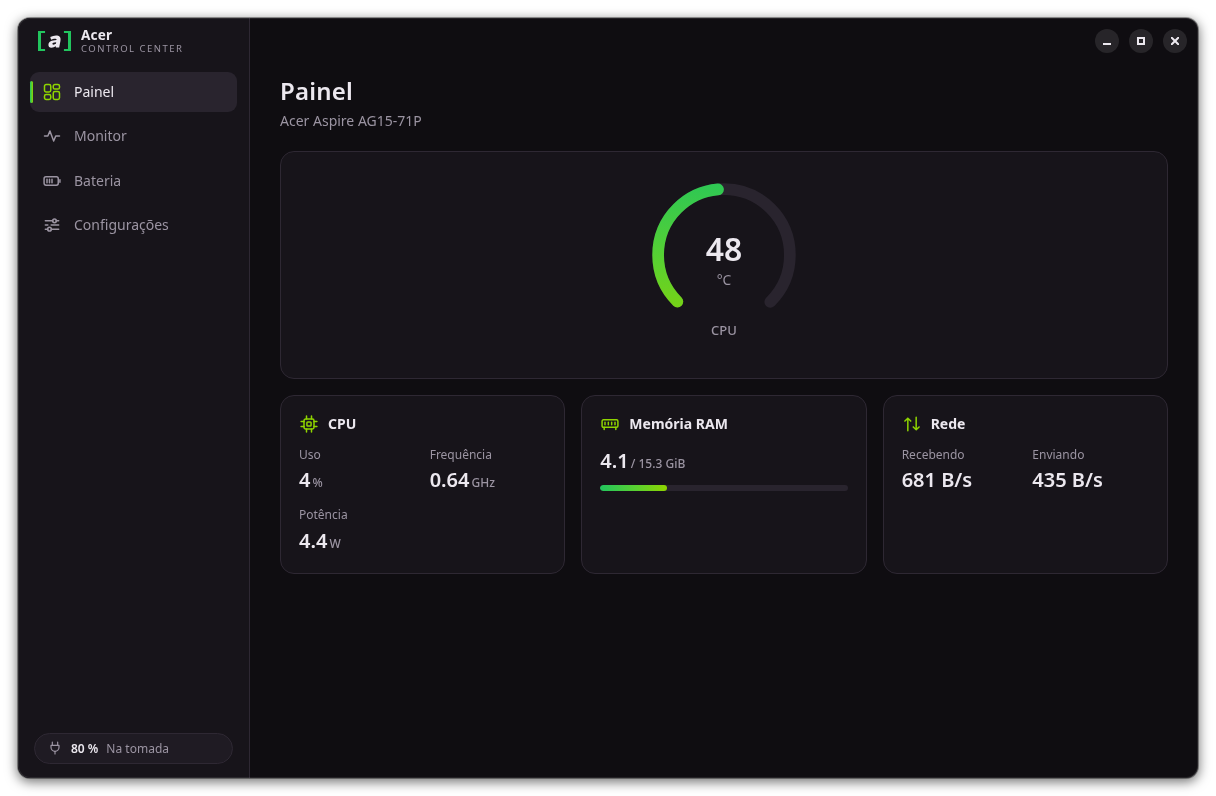
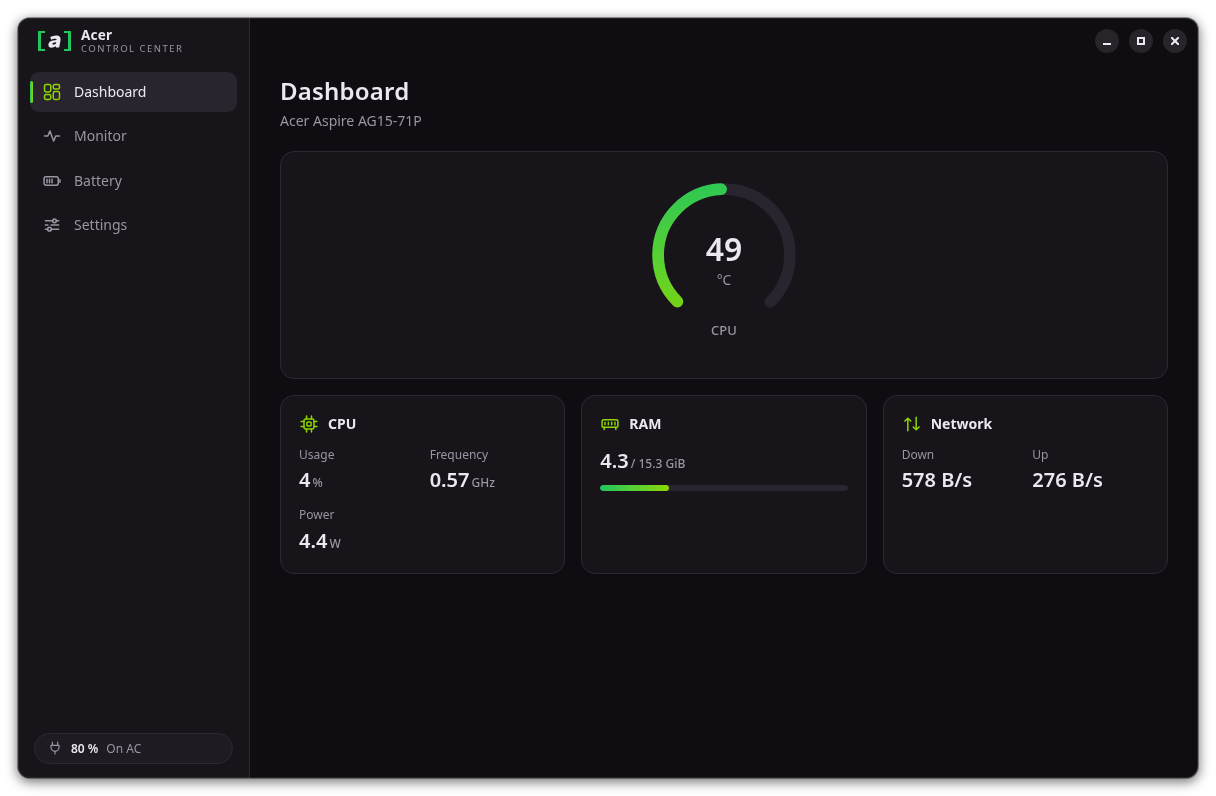
tools/gui-screenshots.py; README screenshots in English
The README screenshots are now always in English and reproducible:

  python3 -I tools/gui-screenshots.py nitro            # simulated ANV15-52
  python3 -I tools/gui-screenshots.py predator         # simulated PHN16-72
  python3 -I tools/gui-screenshots.py acer --dry-run   # this machine, read-only

The tool starts acerd on the session bus (staged when simulated:
Performance, fans at max, scenarios Gaming/Rendering/Quiet with App Sync
on), runs wails dev in the flavor with a temporary XDG_CONFIG_HOME
holding "lang": "en" (and refuses to capture in another language),
captures every page the menu shows through headless Chrome over the
DevTools Protocol (1216x796, transparent margin, Monitor on its 2 min
window) and stops everything it started. It will not run next to
another acerd on the session bus or another wails dev.

docs/screenshots/{acer,nitro} retaken with it; gui/README.md and STATUS
describe it.

diff --git a/tools/gui-screenshots.py b/tools/gui-screenshots.py
@@ -1,0 +1,187 @@
+#!/usr/bin/env python3
+"""Screenshots of the GUI for the README (docs/screenshots/<flavor>/).
+
+Starts acerd on the session bus, stages it, runs the GUI under `wails dev`
+in the chosen flavor and captures every page its menu shows through headless
+Chrome (DevTools Protocol), then stops everything it started:
+
+  python3 -I tools/gui-screenshots.py nitro             # simulated ANV15-52
+  python3 -I tools/gui-screenshots.py predator          # simulated PHN16-72 (Predator mock)
+  python3 -I tools/gui-screenshots.py acer --dry-run    # this machine, read-only
+
+Screenshots are always in English (a temporary XDG_CONFIG_HOME with
+"lang": "en"; the user's settings are not touched), 1216x796 with the window's
+transparent shadow margin. Simulated daemons are staged like a real machine in
+use: Performance mode, fans at max and three scenarios with App Sync on. The
+Monitor page collects --monitor-wait seconds of history and is shown on its
+2 min window. `wails dev` also opens its own window on the desktop meanwhile.
+
+Needs: daemon/acerd and daemon/acerctl built (sh packaging/install-daemon.sh
+build), wails, google-chrome (or chromium) and python3-websocket.
+"""
+import argparse, base64, json, os, shutil, signal, subprocess, sys, tempfile, time, urllib.request
+
+ROOT = os.path.dirname(os.path.dirname(os.path.abspath(__file__)))
+DEV_URL = 'http://localhost:34115/'
+SIZE = (1216, 796)  # window 1180x760 + 18 px shadow margin on each side
+SIM = {'nitro': 'ANV15-52', 'predator': 'PHN16-72'}
+
+# Staging of a simulated machine: (acerctl arguments...)
+STAGE = [
+    ['scenario', 'save', 'Gaming', '--mode-ac', 'balanced-performance', '--mode-battery', 'balanced',
+     '--fan', 'cpu=max', '--fan', 'gpu=max', '--kbd-timeout', '0',
+     '--app', 'eldenring.exe', '--app', 'cyberpunk2077.exe', '--app', 'cs2'],
+    ['scenario', 'save', 'Rendering', '--mode-ac', 'balanced-performance', '--fan', 'cpu=80', '--fan', 'gpu=70',
+     '--app', 'blender'],
+    ['scenario', 'save', 'Quiet', '--mode-ac', 'quiet', '--mode-battery', 'low-power',
+     '--fan', 'cpu=auto', '--fan', 'gpu=auto', '--kbd-timeout', '30'],
+    ['appsync', 'on'],
+    ['scenario', 'apply', 'Gaming'],
+]
+
+
+def die(msg):
+    sys.exit('gui-screenshots: ' + msg)
+
+
+def session_bus_has(name):
+    r = subprocess.run(['busctl', '--user', 'call', 'org.freedesktop.DBus', '/org/freedesktop/DBus',
+                        'org.freedesktop.DBus', 'NameHasOwner', 's', name], capture_output=True, text=True)
+    return r.stdout.strip() == 'b true'
+
+
+def page_html():
+    try:
+        return urllib.request.urlopen(DEV_URL, timeout=2).read().decode('utf-8', 'replace')
+    except OSError:
+        return ''
+
+
+def wait_for(cond, secs, what):
+    end = time.time() + secs
+    while time.time() < end:
+        if cond():
+            return
+        time.sleep(1)
+    die('timed out waiting for ' + what)
+
+
+def capture(out, monitor_wait):
+    import websocket  # python3-websocket
+    chrome_bin = shutil.which('google-chrome') or shutil.which('chromium') or die('google-chrome or chromium not found')
+    port = 9333
+    prof = tempfile.mkdtemp(prefix='gui-shots-chrome-')
+    chrome = subprocess.Popen([chrome_bin, '--headless=new', f'--remote-debugging-port={port}', f'--user-data-dir={prof}',
+                               f'--window-size={SIZE[0]},{SIZE[1]}', '--hide-scrollbars', '--no-first-run', '--disable-gpu',
+                               'about:blank'], stdout=subprocess.DEVNULL, stderr=subprocess.DEVNULL)
+    try:
+        targets = None
+        for _ in range(50):
+            try:
+                targets = json.load(urllib.request.urlopen(f'http://127.0.0.1:{port}/json'))
+                break
+            except OSError:
+                time.sleep(0.2)
+        page = next(t for t in targets or [] if t['type'] == 'page')
+        ws = websocket.create_connection(page['webSocketDebuggerUrl'], timeout=60, suppress_origin=True)
+        seq = 0
+
+        def cdp(method, **params):
+            nonlocal seq
+            seq += 1
+            ws.send(json.dumps({'id': seq, 'method': method, 'params': params}))
+            while True:
+                m = json.loads(ws.recv())
+                if m.get('id') == seq:
+                    if 'error' in m:
+                        raise RuntimeError(m['error'])
+                    return m.get('result', {})
+
+        def js(expr):
+            return cdp('Runtime.evaluate', expression=expr, returnByValue=True).get('result', {}).get('value')
+
+        cdp('Emulation.setDeviceMetricsOverride', width=SIZE[0], height=SIZE[1], deviceScaleFactor=1, mobile=False)
+        cdp('Emulation.setDefaultBackgroundColorOverride', color={'r': 0, 'g': 0, 'b': 0, 'a': 0})
+        cdp('Page.enable')
+        cdp('Page.navigate', url=DEV_URL + '#monitor')
+        time.sleep(6)  # the page reloads once to pick up the language from settings.json
+        lang = js('document.documentElement.lang')
+        if lang != 'en':
+            die(f'the GUI came up in {lang!r}, not English')
+        pages = js("[...document.querySelectorAll('[data-nav]')].filter(b => !b.classList.contains('hidden')).map(b => b.dataset.nav)")
+        print('flavor', js('document.documentElement.dataset.flavor'), 'pages', ','.join(pages))
+        js("document.querySelector('[data-w=\"120\"]')?.click()")
+        print(f'collecting {monitor_wait} s of monitor history...', flush=True)
+        time.sleep(monitor_wait)
+        os.makedirs(out, exist_ok=True)
+        for p in pages:
+            js(f"location.hash = '#{p}'")
+            time.sleep(3)
+            js('document.activeElement && document.activeElement.blur()')
+            shot = cdp('Page.captureScreenshot', format='png')
+            path = os.path.join(out, p + '.png')
+            with open(path, 'wb') as f:
+                f.write(base64.b64decode(shot['data']))
+            print('wrote', os.path.relpath(path, ROOT))
+        ws.close()
+    finally:
+        chrome.terminate()
+        chrome.wait()
+        shutil.rmtree(prof, ignore_errors=True)
+
+
+def main():
+    ap = argparse.ArgumentParser(description=__doc__.split('\n')[0])
+    ap.add_argument('flavor', choices=['acer', 'nitro', 'predator'])
+    ap.add_argument('--dry-run', action='store_true', help="use this machine's hardware read-only instead of a simulated model")
+    ap.add_argument('--out', help='output directory (default: docs/screenshots/<flavor>)')
+    ap.add_argument('--monitor-wait', type=int, default=95, help='seconds of Monitor history before capturing (default 95)')
+    opt = ap.parse_args()
+    if not opt.dry_run and opt.flavor not in SIM:
+        die(f'no simulated model for {opt.flavor}; run it on such a machine with --dry-run')
+    out = opt.out or os.path.join(ROOT, 'docs', 'screenshots', opt.flavor)
+    acerd, acerctl = os.path.join(ROOT, 'daemon', 'acerd'), os.path.join(ROOT, 'daemon', 'acerctl')
+    wails = shutil.which('wails') or os.path.expanduser('~/go/bin/wails')
+    for f in (acerd, acerctl, wails):
+        if not os.access(f, os.X_OK):
+            die(f'{f} not found (see the requirements in the header)')
+    if session_bus_has('io.github.fnndk.Acerd1'):
+        die('an acerd already runs on the session bus; stop it first')
+    if page_html():
+        die(f'something already serves {DEV_URL}; stop the other wails dev first')
+
+    tmp = tempfile.mkdtemp(prefix='gui-shots-')
+    cfg = os.path.join(tmp, 'config')
+    os.makedirs(os.path.join(cfg, 'acerctl'))
+    with open(os.path.join(cfg, 'acerctl', 'settings.json'), 'w') as f:
+        json.dump({'lang': 'en'}, f)
+    env = dict(os.environ, XDG_CONFIG_HOME=cfg, ACERCTL_SESSION='1', ACERCTL_FLAVOR=opt.flavor)
+    env['PATH'] = env.get('PATH', '') + os.pathsep + os.path.dirname(wails)
+
+    args = [acerd, '--session', '--no-polkit', '--state', os.path.join(tmp, 'state.json')]
+    args += ['--dry-run'] if opt.dry_run else ['--simulate', SIM[opt.flavor]]
+    log = open(os.path.join(tmp, 'acerd.log'), 'w')
+    daemon = subprocess.Popen(args, stdout=log, stderr=log)
+    dev = None
+    try:
+        wait_for(lambda: session_bus_has('io.github.fnndk.Acerd1'), 20, 'acerd')
+        if not opt.dry_run:
+            for a in STAGE:
+                subprocess.run([acerctl, '--session'] + a, check=True, stdout=subprocess.DEVNULL)
+        subprocess.run([acerctl, '--session', 'status'], check=True)
+        print('starting wails dev (it also opens a window)...', flush=True)
+        dev = subprocess.Popen([wails, 'dev', '-tags', 'webkit2_41'], cwd=os.path.join(ROOT, 'gui'), env=env,
+                               stdout=subprocess.DEVNULL, stderr=subprocess.DEVNULL, start_new_session=True)
+        wait_for(lambda: f'data-flavor="{opt.flavor}"' in page_html(), 300, 'wails dev')
+        capture(out, opt.monitor_wait)
+    finally:
+        if dev:
+            os.killpg(dev.pid, signal.SIGTERM)
+            dev.wait()
+        daemon.terminate()
+        daemon.wait()
+        shutil.rmtree(tmp, ignore_errors=True)
+
+
+if __name__ == '__main__':
+    main()

diff --git a/STATUS.md b/STATUS.md
@@ -52,7 +52,7 @@ Reference machine: Acer **Nitro ANV15-52** (i7-13620H, RTX 4060, BIOS V1.31), Fe
 - [x] **Suspend/resume** (2026-10-12): `internal/service/sleep.go` listens to logind's `PrepareForSleep`; reapplies profile and fans on resume and restores fans at startup (manual → auto). Findings on the ANV15-52: the firmware resets the profile to `balanced` on resume (the daemon ignores that write and tuned's until it finishes), the fans (max/manual + PWM) survive S3. Validated: `quiet` + max and `quiet` + manual 40 % → resume restores `quiet`; restart with manual → `auto` (api-dbus.md §11).
 - [x] **`[N]` mark and icon** (2026-10-13): `assets/logo/` holds only the ones in use: `n-icon-cut.svg` (app icon: dark rounded square with a #FFA000 base showing at the bottom, a 3D effect in the style of GNOME icons, `[N]` in bas-relief) and `n-mark-cut.svg` (the same `[N]` without the background: N in `currentColor`, brackets in `var(--accent, #ff1b19)`). Source Code Pro Black letters (SIL OFL 1.1) as outlines. The discarded variants (including the gradient octagon, too similar to the Acer icon) went to `../referencias/logo/`, outside the repository.
 - [x] **Icons of the green flavor `acer-control-center`** (2026-10-13): `assets/logo/a-icon-cut.svg` (app icon) and `a-mark-cut.svg` (sidebar mark) with a lowercase "a" from the same Source Code Pro Black, slanted 11° (the font's italic angle; its true italic "a" is single-storey and was dropped), brackets upright, on the N's baseline and centred between the brackets (outlines extracted with fontTools; the extracted N matched the existing outline exactly); own green palette, not Acer's (brackets `#22c55e`, base `#8fd400`, face `#001f0d`→`#10270a`, outline `#2c4a00`). Tray: `assets/logo/n-tray.svg` (source of the existing `icon.png`: rounded black square rx 12, white [N]; re-rendered it differs only in antialiasing) and `a-tray.svg` → `daemon/cmd/acer-tray/icon-a.png`. The SVGs are the sources of the tray PNGs (`fyne.io/systray` takes a bitmap only): `go generate ./cmd/acer-tray` renders both with `rsvg-convert -w 64 -h 64` (librsvg); `icon.png` was regenerated that way. The old SVG comments/ids were translated to English and the marks' comments no longer contain `--` (invalid in XML, rejected by librsvg).
-- [x] **Blue-grey flavor `predator-control-center`** (2026-10-13, checked under `wails dev` with `ACERCTL_FLAVOR=predator` against the simulated ANV15-52; no Predator to install it on): `[P]` from Source Code Pro Black (upright, centred between the brackets), palette brackets/`--g1` `#5a95d8` (a slightly stronger blue than the first `#7aa2cc`), `--g2` `#8bb1da`, base/`--g3` `#b4cbe0`, face `#0c1622`→`#1a2430`, outline `#34465c`; `assets/logo/p-{icon-cut,mark-cut,tray}.svg`, `icon-p.png`, `build/appicon-p.png` (go generate); `daemon/flavor` lists the three flavors (`All`), the tray picks the one installed app; `packaging/io.github.fnndk.PredatorControlCenter.desktop`; `install-gui.sh`: Nitro* → nitro, Predator* → predator (was nitro), else acer. UI walk-through (every page) with `acerd --simulate PHN16-72`, a new Predator mock with the ANV15-52's capabilities: theming fixes for all flavors: the active mode's hover border (`--g-hi`, was a fixed peach), the lit keyboard art (accent instead of a fixed orange) and Monitor series colours per flavor (`--c-cpu/--c-cpu2/--c-gpu/--c-bat`: GPU amber on Predator so it does not blend with the blue CPU, battery violet on Acer so it does not blend with the green CPU; Nitro unchanged). README screenshots redone (2026-10-13): `docs/screenshots/acer/` (Aspire AG15-71P, real machine with `acerd --dry-run`: dashboard, monitor, battery, settings) and `docs/screenshots/nitro/` (`--simulate ANV15-52` staged as before: Performance, fans at max, three scenarios with "Jogos" active and App Sync on), Portuguese UI, 1216×796 with transparent margin; taken with headless Chrome over the DevTools Protocol against `wails dev` (Monitor on the 2 min window after ~95 s of history), with a separate `XDG_CONFIG_HOME` so the user's language setting is untouched. Primary buttons are solid in the flavor's colour everywhere (`.btn.primary`, no more gradient buttons): New scenario, the scenario editor's Save and the confirmation dialogs.
+- [x] **Blue-grey flavor `predator-control-center`** (2026-10-13, checked under `wails dev` with `ACERCTL_FLAVOR=predator` against the simulated ANV15-52; no Predator to install it on): `[P]` from Source Code Pro Black (upright, centred between the brackets), palette brackets/`--g1` `#5a95d8` (a slightly stronger blue than the first `#7aa2cc`), `--g2` `#8bb1da`, base/`--g3` `#b4cbe0`, face `#0c1622`→`#1a2430`, outline `#34465c`; `assets/logo/p-{icon-cut,mark-cut,tray}.svg`, `icon-p.png`, `build/appicon-p.png` (go generate); `daemon/flavor` lists the three flavors (`All`), the tray picks the one installed app; `packaging/io.github.fnndk.PredatorControlCenter.desktop`; `install-gui.sh`: Nitro* → nitro, Predator* → predator (was nitro), else acer. UI walk-through (every page) with `acerd --simulate PHN16-72`, a new Predator mock with the ANV15-52's capabilities: theming fixes for all flavors: the active mode's hover border (`--g-hi`, was a fixed peach), the lit keyboard art (accent instead of a fixed orange) and Monitor series colours per flavor (`--c-cpu/--c-cpu2/--c-gpu/--c-bat`: GPU amber on Predator so it does not blend with the blue CPU, battery violet on Acer so it does not blend with the green CPU; Nitro unchanged). README screenshots (2026-10-13), **always in English**: `docs/screenshots/acer/` (Aspire AG15-71P, real machine with `acerd --dry-run`) and `docs/screenshots/nitro/` (`--simulate ANV15-52` staged: Performance, fans at max, scenarios Gaming/Rendering/Quiet with App Sync on), 1216×796 with the transparent margin, made with `tools/gui-screenshots.py <acer|nitro|predator> [--dry-run]`: starts and stages acerd on the session bus, runs `wails dev` in the flavor with a temporary `XDG_CONFIG_HOME` holding `"lang": "en"` (refuses to capture otherwise), captures every page the menu shows through headless Chrome (DevTools Protocol; Monitor on its 2 min window after 95 s of history) and stops everything. Primary buttons are solid in the flavor's colour everywhere (`.btn.primary`, no more gradient buttons): New scenario, the scenario editor's Save and the confirmation dialogs.
 - [x] **Green flavor `acer-control-center`** (2026-10-13, checked under `wails dev` in both flavors against the read-only Aspire daemon and the simulated ANV15-52, then **installed and validated on the Aspire**: app, launcher icon and tray): one build, flavor decided at run time by the shared package `daemon/flavor` (name, app id, binary): the GUI by the name it is installed under, the tray by the installed app, `ACERCTL_FLAVOR=nitro|acer` overrides. GUI: window title, Wayland app_id/desktop file and single-instance id `io.github.fnndk.AcerControlCenter`, embedded icon `build/appicon-a.png` (`go generate` renders both app icons from the SVGs); an AssetServer middleware marks the page `<html data-flavor data-app-name>` so the first paint has the right mark (`[a]` in the sidebar), name ("Acer", About, document title) and palette (`--g1..--g3` switched on `:root[data-flavor=acer]`: #22c55e/#5bd12f/#8fd400; gauges, bars, switches, uPlot CPU lines, fans page). Tray: `icon-a.png`, name in tooltip/status/"Open …"/notifications, opens the installed app. `install-gui.sh`: flavor from the DMI product name (Nitro*/Predator* → nitro, else acer; `FLAVOR=` overrides), installs the binary under the flavor's name with its desktop file (`packaging/io.github.fnndk.AcerControlCenter.desktop`) and icon, rewrites the tray autostart entry's name/icon, removes the other flavor; `uninstall` removes both. Installed on the Aspire: tray OK; the app grid showed no icon because the desktop entry landed 5 ms before the icon and GNOME Shell kept the miss (GTK finds the icon) → the installer now writes the icon first; after reinstalling and logging in again the icon shows. Also: trademark notice lists Acer and Aspire; the tray hint no longer promises modes/fans/scenarios.
 - [x] **GUI `nitro-control-center` v1** (2026-10-13): `gui/` in Go + Wails v2 (WebKitGTK 4.1, tag `webkit2_41`), framework-less TS frontend, own CSS and icons, system font (`system-ui`), `[N]` mark in the sidebar and `n-icon-cut.svg` as the app icon, no 3D/Lottie. Screens: Dashboard (firmware modes with `Allowed`/`Extras`, temperature and RPM gauges, CPU/GPU/RAM/network), Monitor (uPlot, 2/5/10 min), Fans (auto/max/manual per fan and for all; manual keeps the current PWM), Lighting (state and timeout), Battery (charge, health, 80 % limit, calibration), Scenarios + App Sync (editor, save current state, rename), Settings (USB charging, °C/°F, pt/en language, start with the session via XDG autostart, about/modules, `Reload`). Bridge `gui/app.go`: `State()` with the properties of every interface, `state` event on each `PropertiesChanged` (batched over 80 ms), automatic reconnection when the daemon restarts ("no connection" screen), Monitor only while the window is visible on a live screen, daemon errors as translated `{kind,msg}`. Single instance (opening it again brings the window forward). `daemon/client.Plain` is now shared by the CLI and the GUI. Tested in the `wails dev` browser against the simulated daemon (every screen, errors `NotSupported`/`NotAllowed`/`InvalidArgument`, daemon going down and coming back) and opened on the host against the real `acerd` (connects and subscribes to the Monitor). Packaging: `packaging/install-gui.sh` + `io.github.fnndk.NitroControlCenter.desktop`.
 - [x] **GUI: integrated window** (2026-10-13): no system frame (`Frameless` + transparent background); own themed bar (`gui/titlebar.go`, `frontend/src/titlebar.ts`) with the button order from GNOME's `button-layout` (settings portal, `gsettings` fallback, updates on change) and the icon theme's `window-*-symbolic` icons read from the system at runtime; 12 px corners and a shadow in an 18 px transparent margin (`winMargin`/`--win-margin`, the resize area covers the shadow), all gone when maximized. Limitation: GNOME sees the margin as part of the window (side-by-side tiling leaves a gap). **Per desktop** (2026-10-13): on KDE/LXQt (`XDG_CURRENT_DESKTOP`) the window keeps the compositor's frame (`Frameless` off, opaque background, no margin or own buttons; `ssd` class in the frontend), overridable with `ACERCTL_DECORATIONS=client|server`. Builds; **still to test in a Plasma session**. `[N]` mark with the font's brackets, as in the icon, without the background: `assets/logo/n-mark-cut.svg` (sidebar and connection screen).
@@ -152,6 +152,7 @@ busctl --user introspect io.github.fnndk.Acerd1 /io/github/fnndk/Acerd1
 - `docs/firmware-wmi.md` — technical reference (WMI classes, formats, EC, capabilities, candidate patches).
 - `drivers/acer-wmi-battery/` — vendored (see `UPSTREAM.md`), signed `.ko`.
 - `drivers/acer-wmi-lab/` — research module + `probe*.sh`, `keywatch.py`, results `probe*-<date>.txt`.
+- `tools/gui-screenshots.py` — README screenshots of the GUI per flavor, in English (simulated or `--dry-run` daemon, `wails dev`, headless Chrome).
 - `tools/ec-hid-probe.py` — read-only queries to the EC's vendor HID channel (report A0 of `1025:174B`, "2025 HID" protocol) on newer non-gaming models such as the Aspire AG15-71P.
 - `tools/survey.sh` — read-only hardware report for contributors (`--probes` builds/loads acer-wmi-lab for ~90 Get calls and unloads it); guide in `docs/hardware-reports.md`, issue form `.github/ISSUE_TEMPLATE/hardware-report.yml`.
 - `drivers/acer-wmi-extras/` — companion v1 + `test.sh`.

diff --git a/gui/README.md b/gui/README.md
@@ -43,6 +43,8 @@ ACERCTL_SESSION=1 ACERCTL_FLAVOR=acer wails dev -tags webkit2_41    # the green 
 
 `wails dev` rejects unknown flags, so the session bus comes from `ACERCTL_SESSION=1` (equivalent to `--session`).
 
+**Screenshots** for the README (`docs/screenshots/<flavor>/`) are always in English: `python3 -I tools/gui-screenshots.py nitro` (or `predator`, both simulated; `acer --dry-run` on an Aspire). The tool starts and stages its own daemon and `wails dev`, captures every page through headless Chrome and stops them; it needs `google-chrome` or `chromium` and `python3-websocket`.
+
 ## Installing
 
 ```bash
